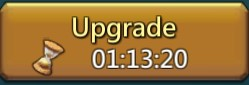
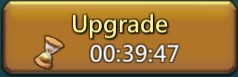
Updated some refrence photos, Some confidence values Build spam works fine now

diff --git a/buildspam.py b/buildspam.py
@@ -3,7 +3,8 @@ import time
 
 n = pyautogui.prompt(text ="",title ="Enyer your message")
 n=int(n)
-x, y = pyautogui.locateCenterOnScreen("Farm.jpg", confidence=0.5)
+n=n+1
+x, y = pyautogui.locateCenterOnScreen("Farm.jpg", confidence=0.4)
 pyautogui.click(x, y, 1)
 
 time.sleep(0.5)
@@ -11,12 +12,12 @@ time.sleep(0.5)
 x, y = pyautogui.locateCenterOnScreen("Up_Button.jpg", confidence=0.5)
 pyautogui.click(x, y, 1)
 
-time.sleep(0.5)
+time.sleep(1.2)
 for i in range(1, n):
-    x, y = pyautogui.locateCenterOnScreen("Up_Button2.jpg", confidence=0.6)
+    x, y = pyautogui.locateCenterOnScreen("Up_Button2.jpg", confidence=0.7)
     pyautogui.click(x, y, 1)
 
-    time.sleep(0.5)
+    time.sleep(1)
 
     x, y = pyautogui.locateCenterOnScreen("Help.jpg", confidence=0.6)
     pyautogui.click(x, y, 1)
@@ -26,7 +27,7 @@ for i in range(1, n):
     x, y = pyautogui.locateCenterOnScreen("Cancel.jpg", confidence=0.5)
     pyautogui.click(x, y, 1)
 
-    time.sleep(2)
+    time.sleep(2.5)
 
     x, y = pyautogui.locateCenterOnScreen("Yes.jpg", confidence=0.6)
     pyautogui.click(x, y, 1)

diff --git a/Test.py b/Test.py
@@ -1,5 +1,6 @@
 import pyautogui
+import time
 
 pyautogui.prompt(text ="",title ="Enyer your message")
-x, y = pyautogui.locateCenterOnScreen("Construction.jpg", confidence=0.5)
-pyautogui.move(x, y )
+x, y = pyautogui.locateCenterOnScreen("Up_Button2.jpg", confidence=0.7)
+pyautogui.moveTo(x, y, 1)
